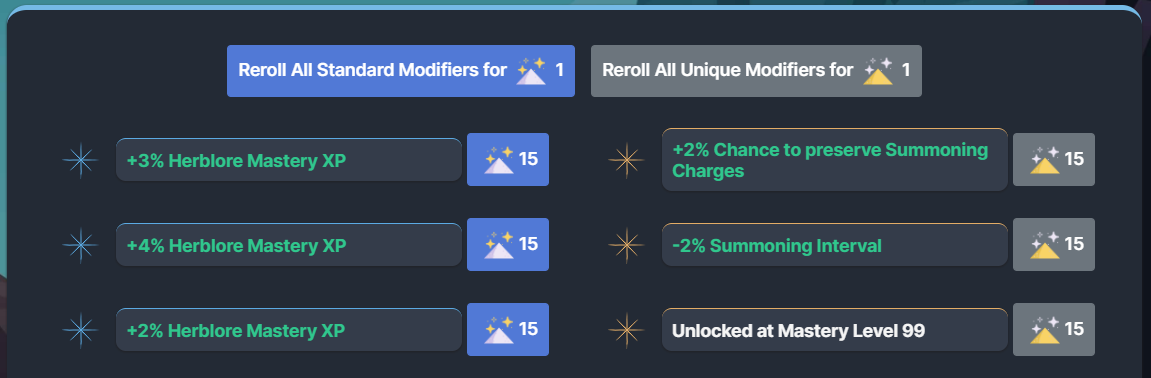
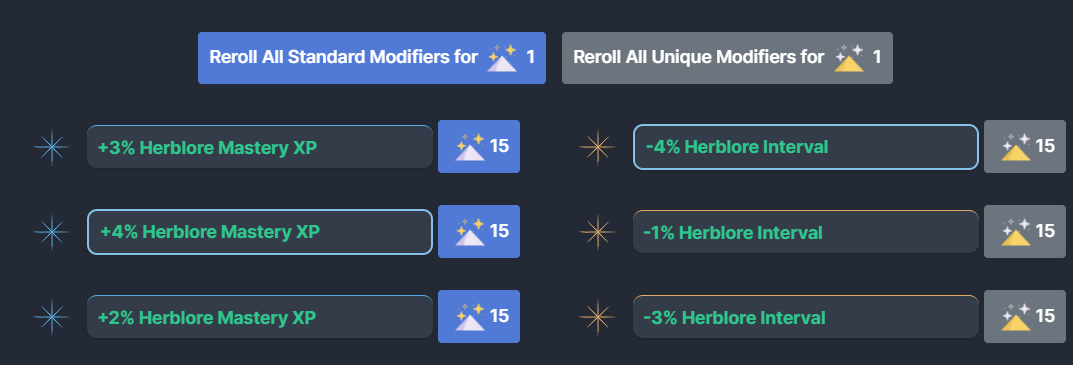
Refactoring and Added Highlight Functionality - Changed the way I interact with the game, now I edit the functions that create the elements that govern how the layout looks instead of interacting with the functions that refresh how it looks (way more complicated IMO) - Added functionality so that wh

diff --git a/BAL.user.js b/BAL.user.js
@@ -1,8 +1,8 @@
 // ==UserScript==
 // @name         Better Astrology Layout
 // @namespace    ididthisonawhimLeole
-// @version      1.0
-// @description  Make the layout less confusing by grouping together bonuses of similar rarity
+// @version      1.1
+// @description  Make the Melvor's Astrology layout less confusing by grouping together bonuses of similar rarity and highlighting rare rolls
 // @author       Leole
 // @match        https://melvoridle.com/*
 // @icon         https://www.google.com/s2/favicons?domain=melvoridle.com
@@ -11,51 +11,130 @@
 
 (function() {
     'use strict';
+    const VERSION = "Public BETA v1.0"
 
-    function updateAstrology() {
-        // if relevant element exists
-        if (document.getElementById("astrology-bonus-element") != null ) {
+    // automatically deactivate the mod if there's an update to the game
+    // if the prototype of the function that handles astrology rerolls is a mismatch to the version of which I'm expanding the definition,
+    // it might corrupt your save, this is a precaution.
 
-            // create my new column elements
-            var normalCol = document.createElement("div");
-            normalCol.setAttribute("class", "col-6 p-2");
-            var specialCol = document.createElement("div");
-            specialCol.setAttribute("class", "col-6 p-2");
+    if (gameVersion === VERSION){
+        function highlightRares(col) {
+            col.children.forEach((mod) => {
+                var modSpan = mod.getElementsByTagName("span")[0]
+                if (typeof modSpan !== 'undefined'){
+                    var modText = modSpan.textContent
+                    var modContainer = mod.children[0].children[1].children[0]
+                    if(modText.includes("4")){
+                        modContainer.setAttribute("style", "border: 2px #85C1E9 solid !important;")
+                    } else if (modText.includes("5")){
+                        modContainer.setAttribute("style", "border: 2px #FFD580 solid !important;")
+                    } else {
+                        modContainer.removeAttribute("style");
+                    }
+                }
+            })
+        }
 
-            // container is the div containing all the rows that will be moved
-            var element = document.getElementById("astrology-bonus-element");
-            var container = element.children[0].children[0];
+        createAstrologyBonusesElement = function(id) {
+            let html = "";
+            html += `<div class="block block-content block-content-full block-rounded-extra block-link-pop border-top border-astrology border-4x text-center">
+            <div class="row gutters-tiny">
+            <div class="col-12 p-1">
+            <button class="btn btn-sm btn-primary m-1" id="astrology-reroll-all" onClick="rerollAstrologyModifiers(${id}, 'standard');">${templateString(getLangString("ASTROLOGY", "BTN_3"), {
+                itemImage: `<img class="skill-icon-xs mr-1" src="${getItemMedia(CONSTANTS.item.Stardust)}">`,
+                qty: `1`
+            })}</button>
+            <button class="btn btn-sm btn-secondary m-1" id="astrology-reroll-all-unique" onClick="rerollAstrologyModifiers(${id}, 'unique');">${templateString(getLangString("ASTROLOGY", "BTN_4"), {
+                itemImage: `<img class="skill-icon-xs mr-1" src="${getItemMedia(CONSTANTS.item.Golden_Stardust)}">`,
+                qty: `1`
+            })}</button>
+            </div>
+            <div class="col-6 p-2" id="normal-bonuses-column">
+            <div class="col-12 p-2">
+            ${createAstrologyModifierElement(id, 0)}
+            </div>
+            <div class="col-12 p-2">
+            ${createAstrologyModifierElement(id, 2)}
+            </div>
+            <div class="col-12 p-2">
+            ${createAstrologyModifierElement(id, 4)}
+            </div>
+            </div>
+            <div class="col-6 p-2" id="special-bonuses-column">
+            <div class="col-12 p-2">
+            ${createAstrologyModifierElement(id, 1)}
+            </div>
+            <div class="col-12 p-2">
+            ${createAstrologyModifierElement(id, 3)}
+            </div>
+            <div class="col-12 p-2">
+            ${createAstrologyModifierElement(id, 5)}
+            </div>
+            </div>
+            </div>
+            </div>`;
+            return html;
+        }
 
-            // flip flop
-            var isItCommon = true;
+        createAstrologyModifierElement = function(id, num) {
+            let modText = getDefaultAstrologyModifierText(id, num)
+            let border = "border-top border-1x border-info";
+            let style = ""
 
-            // clone each row to their respective column, then remove them
-            for(let i=1; i != container.childElementCount ; ){
-                isItCommon ? normalCol.appendChild(container.children[i].cloneNode(true)) : specialCol.appendChild(container.children[i].cloneNode(true));
-                container.removeChild(container.children[i]);
-                isItCommon = !isItCommon;
+            if(modText.includes("4")){
+                style = "border: 2px #85C1E9 solid !important;"
+            } else if (modText.includes("5")){
+                style = "border: 2px #FFD580 solid !important;"
             }
 
-            // append new columns
-            container.appendChild(normalCol);
-            container.appendChild(specialCol);
+            let starImg = "star_standard.svg";
+            let dustImg = items[CONSTANTS.item.Stardust].media;
+            let btnClass = "btn-primary";
+            let btnCost = getSingleStardustCost();
+            if (num % 2 !== 0) {
+                starImg = "star_unique.svg";
+                border = "border-top border-1x border-warning";
+                dustImg = items[CONSTANTS.item.Golden_Stardust].media;
+                btnClass = "btn-secondary";
+                btnCost = getSingleGoldenStardustCost();
+            }
+            return `<div class="media d-flex align-items-center push m-0">
+            <div class="m-1 font-w600">
+            <img class="skill-icon-sm mr-2" src="assets/media/skills/astrology/${starImg}">
+            </div>
+            <div class="media-body">
+            <div class="block block-rounded-double bg-combat-inner-dark p-1 mb-0 ${border} text-left" style="${style}">
+            <h5 class="font-w700 font-size-sm m-1" id="astrology-modifier-${id}-${num}">${modText}</h5>
+            </div>
+            </div>
+            <div class="m-1">
+            <button class="btn btn-sm ${btnClass}" role="button" onClick="rerollSpecificAstrologyModifier(${id}, ${num}, true);"><img class="skill-icon-xs mr-1" src="${dustImg}">${btnCost}</button>
+            </div>
+            </div>`;
+        }
+
+        // arguments 'confirmed' and 'bypass' seem to be debug values
+        // 'applySingleCost' controls whether or not you get dust discounted when you reroll. 
+        // This is exlusively set to false when you unlock a slot by achieving a certain mastery level, so it doesn't cost you anything.
+
+        var oldSpecificReroll = rerollSpecificAstrologyModifier;
+        var oldReroll = rerollAstrologyModifiers;
+
+        // expand rerolling to highlight rares
+        rerollSpecificAstrologyModifier = function(id, i, applySingleCost=false, confirmed=true, bypass=false) {
+            oldSpecificReroll.call(this, id, i, applySingleCost, confirmed, bypass);
+            var normalCol = document.getElementById("normal-bonuses-column");
+            highlightRares(normalCol);
+            var specialCol = document.getElementById("special-bonuses-column");
+            highlightRares(specialCol);
+        }
+
+        rerollAstrologyModifiers = function(id, type="standard", confirmed=true, bypass=false) {
+            oldReroll.call(this, id, type, confirmed, bypass);
+            var normalCol = document.getElementById("normal-bonuses-column");
+            highlightRares(normalCol);
+            var specialCol = document.getElementById("special-bonuses-column");
+            highlightRares(specialCol);
         }
     }
-
-    var oldAstrology = createAstrologySelectedUI;
-    var oldMastery = levelUpMasteryWithPool;
-
-    // expand the definition of the function that updates the UI with new columns
-    createAstrologySelectedUI = function(args) {
-        oldAstrology.call(this, args);
-        updateAstrology();
-    }
-
-    // spending mastery pool also updates the UI, so the columns need to be created, again
-    levelUpMasteryWithPool = function(skill, mastery, confirmation) {
-    oldMastery.call(this, skill, mastery, confirmation);
-    if (skill == 22 && !confirmation) {
-        updateAstrology();
-    }
-}
 })();

diff --git a/README.md b/README.md
@@ -1,8 +1,8 @@
 # Better Astrology Layout
- Make the layout for Melvor's Astrology skill less confusing by grouping together bonuses of similar rarity
+ Make the Melvor's Astrology layout less confusing by grouping together bonuses of similar rarity and highlighting rare rolls
 
-## Before
+### Before
 ![Before](/assets/images/before.png)
 
-## After
+### After
 ![After](/assets/images/after.png)
